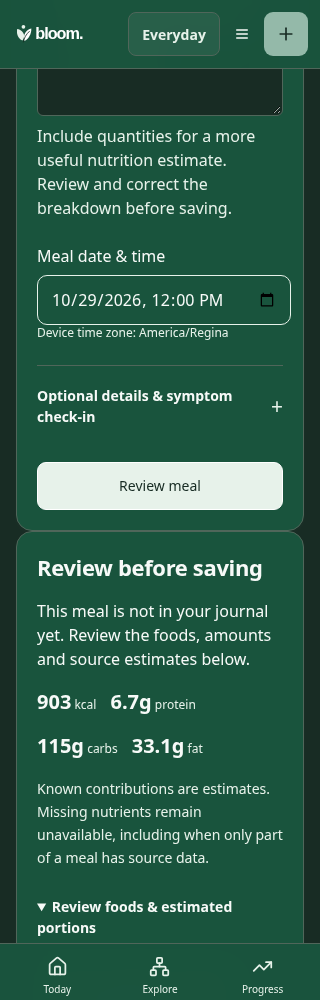
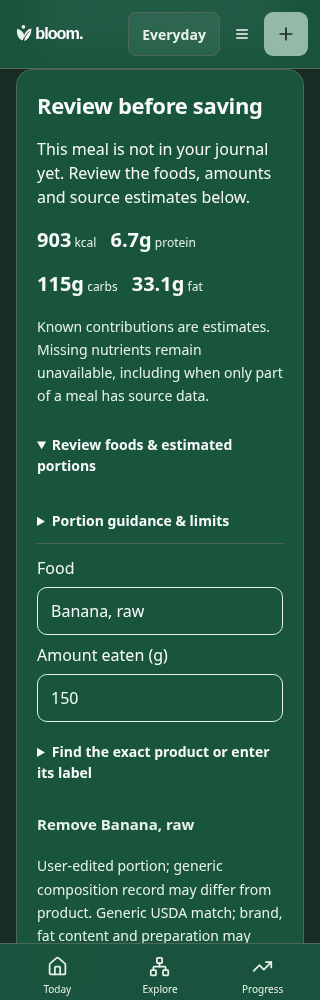
Record exact deployed flagship comparison and verification evidence

diff --git a/NEXT_ACTIONS.md b/NEXT_ACTIONS.md
@@ -1,27 +1,16 @@
-# Resume flagship core publication, then continue approved slices
+# Continue approved core functionality and scoped UI slices
 
-Repository `/workspace/BloomGutHealth`, branch `enhance/bloom-experience`, PR1. Existing Render workspace `tea-db9toijrjlhs73850cp0` / service `srv-db9u7mjbc2fs73d86uv0`; review-service auto-deploy authorized. No main merge, replacement service, production data/credentials, paid/restricted activation or external messages. No routine approval questions.
+Branch `enhance/bloom-experience`, PR1, existing Render service `srv-db9u7mjbc2fs73d86uv0` / workspace `tea-db9toijrjlhs73850cp0`. Routine verified pushes/auto-deploy authorized; no main merge, replacement service, production credentials/data or paid/restricted activation.
 
-## Current source checkpoint
+## Verified checkpoint
 
-Latest owner/architectbf0cc56/2b7f7c3 prioritizes usable flagship UI at safe boundaries, then applicable remaining UI surfaces as working vertical slices. Source-only archive task is complete8933079;13 originals verified on GitHub, no original asset bytes modified. Current source implements phase1 on existing stores/APIs: Today/My biology/Progress navigation, persistent Add food, canonical actual Today overview, compact native ingredient rows (known collapsed, missing/new open), same-item source focus, amount/remove/add, Back to details, explicit review/save, partial/unknown/zero truth, focused acknowledgement before next chooser, canonical saved snapshot with labelled original description, View Today/Add another meal,320px theme access/portal contrast. No fake concept numbers or role/gate changes.
+Original flagship transfer8933079 COMPLETE:13 original files byte/GitHub verified, originals unchanged. Runtime79f99180484cb74f20b9366dacd2346253ae51a1 implements working Today–Food review–save–results slice on existing APIs. Actions40805415246 SUCCESS451/451/build/isolated-Neon including post-delete totals+coverage; Renderdep-dbhap67b9u1s739lg820 LIVE exact SHA, USDA startup20 results. Review packet `docs/review/flagship-core-20261029/REVIEW.md` contains clean pinned before9ea/after79f receipts, selective annotations and walkthrough. Local synthetic actual App/API/PGlite evidence is not hosted authenticated or independent Design acceptance. Full v0.5/applicable UI programme remains incomplete.
 
-Local verification:451/451 full Node tests;17 final focused; final types/build/API inventory/capability map PASS. Actual App/API/PGlite5-food source change retains100g/2.5servings,150g edit/remove/add, zero pre-confirm writes, exact lost-ack retry/one row, canonical Today/journal/Progress, stale read withdrawal/owner,320/375/390/430/1280 light/dark and keyboard disclosure/focus PASS. Source replacement, tiny positive/partial overview, dynamic-row drafts/20bound, journal keyboard edit/delete and unknown correction/review retry regressions PASS. No application source changes during final browser checks. Logs `/tmp/flagship-*`.
+## Next execution
 
-Before matrix: `docs/review/flagship-core-20261029/before/verification.json`, clean pinned9ea2295a3948e88733dd48eccaf767a9f9c6b130. Candidate passed with matching canonical totals, explicitly working-tree images; do not publish as exact source. Packet `docs/review/flagship-core-20261029/REVIEW.md` has deviations and owner walkthrough. Full UI programme/independent fidelity and v0.5 reconciliation remain incomplete; v0.6 not begun. EXP01 expansion stays paused.
+1. Continue Food Journal functional usability: current card title still displays original free-text even when canonical foods were corrected. Present canonical recorded identity where available, preserve and label original description, current source/amount provenance and keyboard edit/delete; use existing APIs/data. No new nutrition/data engine or broad redesign.
+2. Verify targeted regressions, actual browser journey, types/build, source inventories where applicable; commit/push verified coherent slice, inspect exact Actions and Render SHA. Preserve incoming architect commits, never force push.
+3. Continue approved Progress/Biology/Athlete/profile UI verticals under bf0cc56/2b7f7c3 and original contracts; preserve safe working functions, actual zero/null/partial and gates. EXP01 expansion paused under owner UI priority. No fictional ranges/history/targets.
+4. Reconcile remaining original207/current criteria (78/139 inherited IDs exact-source traced), then approved independent v0.6 after actionable v0.5 completion. Existing blocked questions stay in BLOCKED_USER_INPUT.md; never request the imported ZIP, API key or Tester1 reset again.
 
-## Immediate actions
-
-1. Commit/push current verified source+before/packet/QA/records (preserve latest2b7 handoff; already fast-forwarded). If remote advances, fetch/integrate owner changes without force/main merge.
-2. Capture clean exact committed after matrix, then inspect representative images:
-   `BLOOM_FLAGSHIP_SOURCE_REF=<full commit SHA> BLOOM_FLAGSHIP_PHASE=after BLOOM_PLAYWRIGHT_MODULE=/opt/codex/cua_node/lib/node_modules/playwright BLOOM_CHROMIUM_EXECUTABLE=/usr/bin/chromium node --import tsx scripts/qa/flagship-core-journey.mjs`
-   Fixture uses5270 and its own temporary worktree/Vite cache; no production database/account. Remove only own exploratory candidate images after final capture.
-3. Verify exact pushed Actions (full SHA query), full tests/build/isolated-Neon and Render commit/status. Update PR1, packet and MORNING_HANDOFF with actual SHA/results, then commit evidence at meaningful checkpoint. No claim local synthetic images are hosted Render screenshots: direct hosted capture remains proxy-constrained; precise dependency in BLOCKED_USER_INPUT.md.
-4. Continue next scoped applicable UI slice against original contracts and approved current APIs (Food Journal/Progress then Biology/Athlete/profile as priority/dependencies warrant), actual source data and screenshot/interaction verification. Do not wait for noncritical input/Branding while other safe work is available, and do not fabricate unsupported features/history. Retain mandatory scientific/privacy/licensing gates.
-5. Continue original207/current-approved requirement trace.78/139 inherited IDs have exact consolidated criteria, not automatic completion. Once all actionable v0.5 finished, reconcile and begin approved independent v0.6 automatically.
-
-## Exact prior results / pitfalls
-
-f7a2776 Actions40793301914 SUCCESS450/450/build/Neon (includes fixed4a76c9b metadata bug + inventory).169bb5a Actions40791634301 SUCCESS447/447 and actual production post-delete daily/monthly/yearly/coverage checks.4a standalone40792454938 FAILED inventory, resolved in f7.9ea40795219236 CANCELLED by newer docs, not success; RenderLIVE2b7f7c3/dep-dbh9b7ss728c73cr5fvg includes it. Original import8933079 complete; no repeat archive/key/Tester1/native-v0.5 scope questions. Browser/PWA-first confirmed; no native/device release claim.
-
-Source check commands: `node --import tsx scripts/api-exposure-inventory.ts --check` (101static/13unresolved), `node --import tsx scripts/capability-crosswalk.ts --check` (52IDs141code files; CSS separately reviewed). Refresh both after server source edits, never weaken drift gates. Dependent browser checks should avoid shared Vite cache races; new fixture has isolated cache. Existing exact questions/defaults in BLOCKED_USER_INPUT.md; full history DEVELOPMENT_LOG.md/BACKLOG.md, concise MORNING_HANDOFF.md.
+Browser: BLOOM_PLAYWRIGHT_MODULE=/opt/codex/cua_node/lib/node_modules/playwright BLOOM_CHROMIUM_EXECUTABLE=/usr/bin/chromium. Dependent legacy journeys sequential; flagship has unique cache/pinned-worktree mode. Node tests via --import tsx. API inventory101static/13unresolved; capability map52IDs141code files at79f. Refresh after source changes rather than weakening checks. Root BACKLOG/DEVELOPMENT_LOG/MORNING_HANDOFF preserve history and exact blockers.

diff --git a/DEVELOPMENT_LOG.md b/DEVELOPMENT_LOG.md
@@ -1201,3 +1201,5 @@ ID05 next-meal slice: existing full-day tradeoff engine discovered/retained, no 
 Flagship phase1 local milestone:451/451 full Node tests PASS (266s),17 focused cases PASS. Actual baseline and current candidate five-food source/amount/remove/add/exact-save/Today/journal/Progress/multi-width light/dark paths PASS before final confirmation-copy refinement. Tiny positive plus unknown-mixed meal saved overview now displays known partial contributions with Partial label and retains original timezone/one row per intent. New saved/preview overview uses existing canonical summary; confirmation precedes next chooser and receives focus only after acknowledgement. Inspected real screenshots; fixed overlapping success toast and theme-transition contrast, with dialog-close wait for accurate review captures. Original description is now explicitly separated from reviewed source snapshot rather than mislabelling corrected food identity. Final post-refinement candidate/caption/row regressions and exact committed after images pending.
 
 2026-10-29 final local flagship phase1: compact native known-row disclosures implemented, missing/new rows open, persistent editor keys and amounts across collapse/reindex. Updated visible-control QA helpers; initial Set spread violated project TS target, corrected via copied Set/add without changing compiler settings. Fixture collapse-loop used live nth selectors; corrected to repeatedly close first open row, not a product workaround. Final five-food/light-dark/multi-width/native keyboard/source focus/no pre-confirm writes/receipt recovery/one record and final17focused/types/build PASS. Existing source replacement, dynamic rows, journal keyboard and unknown-response correction/review regressions PASS; narrowed caption locator to its ingredient after shared Change food copy made unscoped text ambiguous. No application source modified during final browser runs. Review packet and refreshed morning/resume checkpoint prepared, publication/clean exact-ref after evidence pending.
+
+2026-10-29 published flagship checkpoint: runtime79f99180484cb74f20b9366dacd2346253ae51a1; exact Actions40805415246 SUCCESS451/451/build/isolated-Neon, Renderdep-dbhap67b9u1s739lg820 LIVE and USDA20. Clean pinned before/after full matrix PASS with identical canonical totals, one record/five foods/no browser errors; numbered callouts plus unmarked originals. Hosted authenticated capture and independent fidelity remain separate. Next: canonical recorded identity in Food Journal on existing APIs, then approved remaining UI slices; v0.5 incomplete.

diff --git a/docs/review/flagship-core-20261029/REVIEW.md b/docs/review/flagship-core-20261029/REVIEW.md
@@ -16,7 +16,9 @@ Authority: MKT-FLAG-UX-2026-10-26-A1, original `design/bloom/flagship/2026-10-26
 
 Assertions: zero pre-confirm rows, exact body/key/revision recovery after a committed save's reply is lost, one journal row, five canonical ingredients, unchanged ownership, identical saved/Today/journal/Progress source totals, stale totals withdrawn after read failure, keyboard-capable controls and no horizontal overflow. Separate tiny-positive/partial saved-overview and indexed replacement regressions preserve old behavior. Full Node suite451/451 passes; final source type/build and exact pushed CI/Render are tracked in NEXT_ACTIONS.md.
 
-Original baseline is a clean pinned9ea2295a3948e88733dd48eccaf767a9f9c6b130 worktree. The fixture checks API backend source against the selected ref and removes only its own temporary checkout/cache. `before/verification.json` records source, viewport checks and canonical values. Final `after/` must be captured from the exact committed source ref; working `candidate/` images are exploratory and are not publication evidence.
+Original baseline is a clean pinned9ea2295a3948e88733dd48eccaf767a9f9c6b130 worktree. The fixture checks API backend source against the selected ref and removes only its own temporary checkout/cache. `before/verification.json` records source, viewport checks and canonical values. Final `after/` is clean pinned runtime79f99180484cb74f20b9366dacd2346253ae51a1; both receipts have identical canonical totals, one row, five ingredients and zero browser errors. Selective numbered first-use/review annotations accompany unmarked originals. Exploratory candidate images were removed.
+
+Exact runtime79f9918: Actions40805415246 SUCCESS,451/451 tests, production build and isolated-Neon persistence including post-delete daily/monthly/yearly totals and coverage PASS. Renderdep-dbhap67b9u1s739lg820 LIVE at the same full SHA; public startup serving10000 and USDA Branded status=ok/returned20. This verifies deployment, not authenticated hosted screenshots or independent Design acceptance.
 
 Matrix:320/375/390/430/1280, first use and populated review, light/dark; plus chooser, uncertain save, confirmed save, recorded Today, journal, Progress and read failure. These are **local synthetic App/API/SQL screenshots**, not hosted Render or independent device acceptance. See before/after folders and verification receipts. Inspect actual images rather than relying only on a green script.
 

diff --git a/BACKLOG.md b/BACKLOG.md
@@ -838,3 +838,5 @@ Dependency: latest architect core-first/legal clarification (aa76d8a); original 
 - FLAGSHIP-CORE-TESTABILITY — P0 ACTIVE per owner/architectbf0cc56. Safe boundary: keyboard checkpoint9ea2295 pushed; pause new feature expansion. Focused live Food→Today usability using MKT-FLAG-UX-2026-10-26-A1 and original implementation contract/prototype, reuse APIs/components/canonical summary/receipt/model, no broad redesign. Acceptance: clear three-destination navigation, prominent first-use Add food, scanable arbitrary ingredient review/change/amount/remove/add, save/retry/results;320/375/390/430/desktop/light-dark/keyboard, actual state screenshots/exact SHA. Hosted screenshot access separately constrained, local fixture must not be labelled hosted.
 
 FLAGSHIP-CORE-TESTABILITY checkpoint: local implementation/tests complete;451 full/17 focused/type/build/source and actual five-food/receipt/owner/multi-width/light-dark/keyboard matrix PASS. Compact native rows retain per-row editor state, unresolved/new rows open, source selection preserves current item focus; no stores/APIs/permissions replaced. Canonical saved overview retains partial contributions; unknown correction withdraws prior totals AND ingredient snapshot. Source proof/packet ready; exact commit/push/clean after/CI/Render pending. Full contracted UI programme beyond phase1 remains ACTIVE, no full design signoff claimed.
+
+2026-10-29 published flagship checkpoint: runtime79f99180484cb74f20b9366dacd2346253ae51a1; exact Actions40805415246 SUCCESS451/451/build/isolated-Neon, Renderdep-dbhap67b9u1s739lg820 LIVE and USDA20. Clean pinned before/after full matrix PASS with identical canonical totals, one record/five foods/no browser errors; numbered callouts plus unmarked originals. Hosted authenticated capture and independent fidelity remain separate. Next: canonical recorded identity in Food Journal on existing APIs, then approved remaining UI slices; v0.5 incomplete.

diff --git a/MORNING_HANDOFF.md b/MORNING_HANDOFF.md
@@ -45,3 +45,5 @@ API source inventory is101static/13unresolved, source crosswalk52IDs138files; au
 6. **Restricted/operational decisions:** approved sensitive clinical output/reveal scope versus withholding; actual recovery/retention policy, role provisioning and authoritative billing evidence before those operations activate. Recommended: remain denied/withheld where unapproved; ordinary browser development continues. Latest low-cost mandate defers speculative expensive clinical/research infrastructure rather than making it a core prerequisite.
 
 Exact task IDs, questions, options, reasons and impacts remain in BLOCKED_USER_INPUT.md. Native v0.5 scope is resolved browser/PWA-first; original flagship source access is resolved. Independent specialist, physical-device/accessibility and launch approval are separate. NEXT_ACTIONS.md contains exact resumption instructions. No routine approval needed.
+
+2026-10-29 published flagship checkpoint: runtime79f99180484cb74f20b9366dacd2346253ae51a1; exact Actions40805415246 SUCCESS451/451/build/isolated-Neon, Renderdep-dbhap67b9u1s739lg820 LIVE and USDA20. Clean pinned before/after full matrix PASS with identical canonical totals, one record/five foods/no browser errors; numbered callouts plus unmarked originals. Hosted authenticated capture and independent fidelity remain separate. Next: canonical recorded identity in Food Journal on existing APIs, then approved remaining UI slices; v0.5 incomplete.
